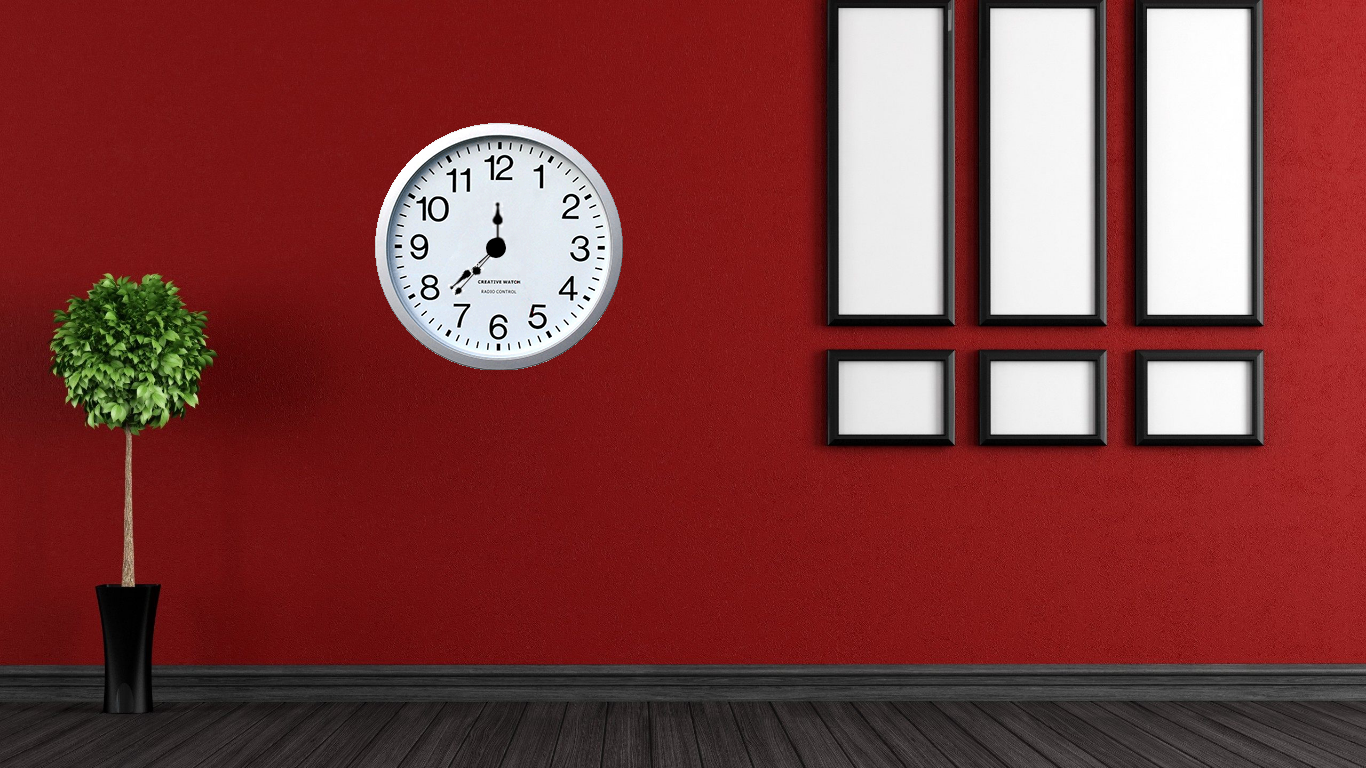
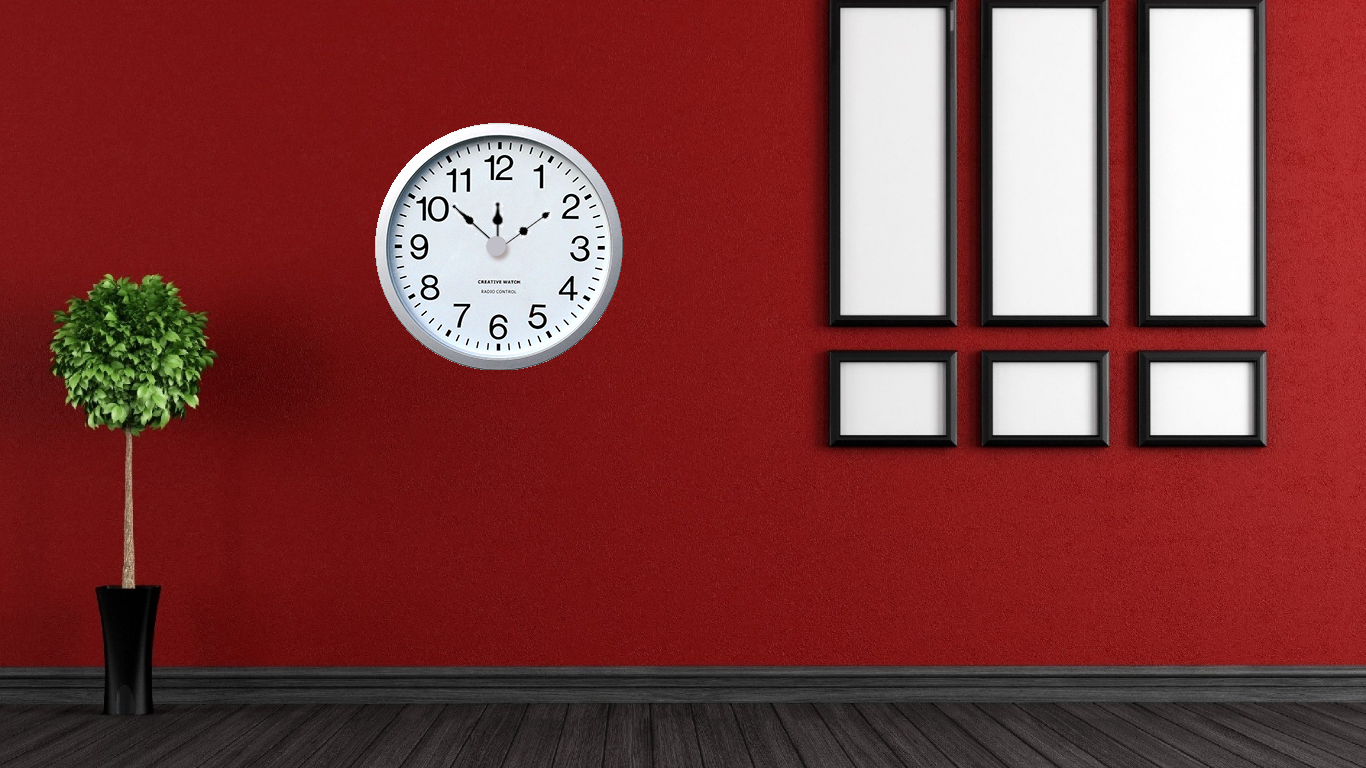
demo pic commit

diff --git a/css/index.css b/css/index.css
@@ -42,13 +42,14 @@ h1,h3{
 	background-image: url(../img/minute.png);
 }
 .pointer{
-	background-color: black;
+	background-color: #c0bec7;
+	box-shadow: 3px 4px 5px 0px #aea0a0;
 	width: 20px;
 	height: 20px;
 	display: inline-block;
 	position: absolute;
-	left: 41%;
-	top: 51%;
+	left: 45%;
+	top: 46%;
 	z-index: 5;
 	border-radius: 50px;
 }

diff --git a/index.html b/index.html
@@ -6,7 +6,7 @@
 </head>
 <body>
 <div class="clock">
-	 <div class="hand pointer"></div>
+	 <div class="pointer"></div>
 	 <div class="hand hour"></div>
 	 <div class="hand min"></div>
 	 <div class="hand sec"></div>
